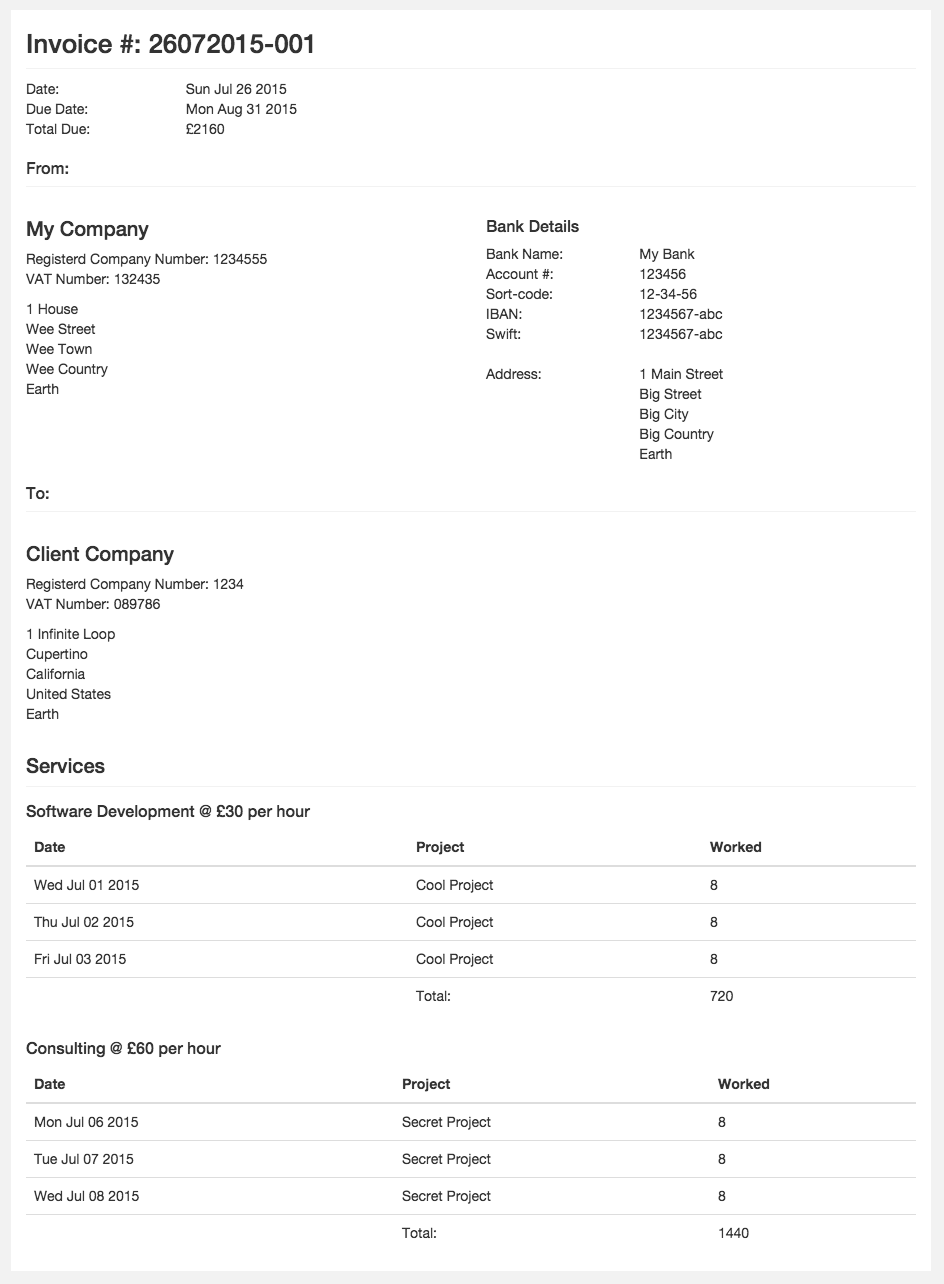
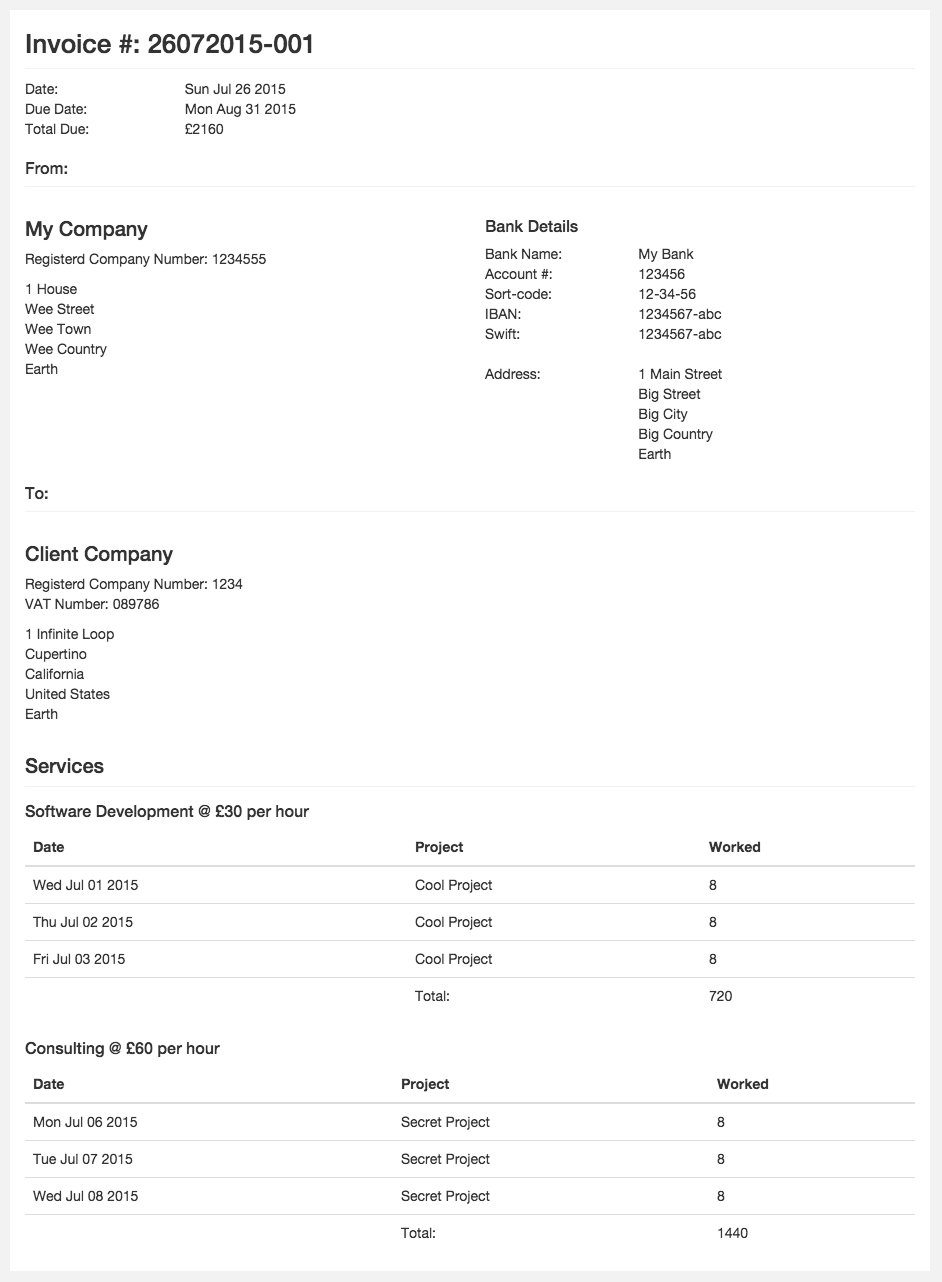
making vat optional

diff --git a/templates/companyDetails.html b/templates/companyDetails.html
@@ -2,8 +2,10 @@
   <div class="col-xs-12 col-sm-6">
     <h2>{{name}}</h2>
     <p>
-      Registerd Company Number: {{number}}</br>
-      VAT Number: {{vat}}
+      Registerd Company Number: {{number}}
+      {{#vat}}
+        </br>VAT Number: {{vat}}
+      {{/vat}}
     </p>
     <p>
       {{#address}}

diff --git a/test/data.js b/test/data.js
@@ -13,7 +13,6 @@ module.exports = {
   "from": {
     "name": "My Company",
     "number": "1234555",
-    "vat": "132435",
     "address": [
       "1 House",
       "Wee Street",
